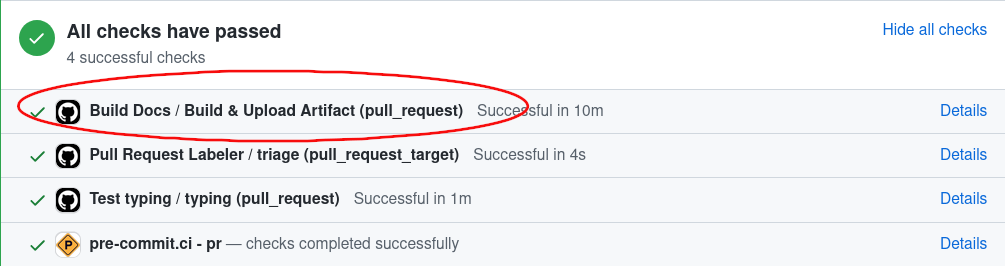
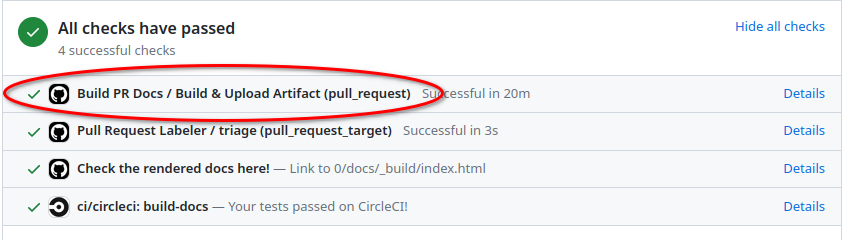
Add instructions on how to check preview of built docs (#140)
# Description

Adds instructions on how to check preview of built docs in the PR
template and docs contribution guide.

Also improves alt-text for images describing the CI artifacts download
and updates screenshots on the docs contribution guide.

## Type of change
<!-- Please delete options that are not relevant. -->
- [x] Fixes or improves existing content

# References
Closes #98

## Final checklist:
- [x] My PR is the minimum possible work for the desired functionality

diff --git a/docs/developers/documentation/index.md b/docs/developers/documentation/index.md
@@ -275,22 +275,33 @@ on your terminal.
 
 Alternatively, when you submit your pull request, the napari docs repository
 continuous integration includes a GitHub action that builds the documentation
-and saves the artifact for you to download. This is another way to check that
-your built documentation looks as you expect. To download the built
+and saves the artifact for you to preview or download. This is another way to check that
+your built documentation looks as you expect. To view the built
 documentation, go to your PR, scroll down to the continuous integration tests,
-then:
+and choose one of the following options.
+
+**To preview on your browser:**
+
+Click on **Details** next to the `Check the rendered docs here!` check:
+
+![CircleCI check is highlighted](images/circleci-link.png)
+
+This will open a preview of the website on your browser, and you can then
+navigate to the page where you expect to see your changes.
+
+**To download the built documentation pages:**
 
 1. Click on **Details** next to `Build PR Docs / Build & Upload Artifact (pull_request)`:
 
-![doc-continuous-integration-1](images/doc-ci-1.png)
+![The "Build PR Docs / Build & Upload Artifact" check is highlighted](images/doc-ci-1.png)
 
 2. Click on **Summary** on the top left corner:
 
-![doc-continuous-integration-1](images/doc-ci-2.png)
+![Summary link in the "Build PR Docs / Build & Uplod Artifact" GitHub Action page](images/doc-ci-2.png)
 
 3. Scroll down to **Artifacts** and click on **docs** to download the built documentation:
 
-![doc-continuous-integration-1](images/doc-ci-3.png)
+!["docs" link in the Artifacts section of the "Build PR Docs / Build & Uplod Artifact" GitHub Action page is highlighted](images/doc-ci-3.png)
 
 4. Extract the compressed archive and open the `docs/index.html` file on your preferred browser.
    You can also use Python's `http.server` module to open a local server on

diff --git a/.github/PULL_REQUEST_TEMPLATE.md b/.github/PULL_REQUEST_TEMPLATE.md
@@ -3,6 +3,7 @@
 <!-- Tell us about your new content, improvement, or fix! -->
 <!-- If you can, please add an image, or an animation "An image is worth a thousand words!" -->
 <!-- You can use https://www.cockos.com/licecap/ or similar to create animations -->
+<!-- You can also see a preview of the documentation changes you are submitting by clicking on "Details" to the right of the "Check the rendered docs here!" check on your PR.>
 
 ## Type of change
 <!-- Please delete options that are not relevant. -->
